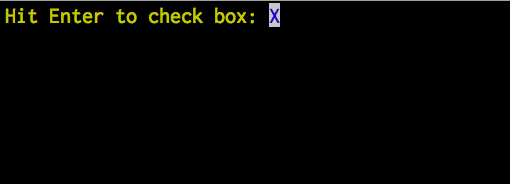
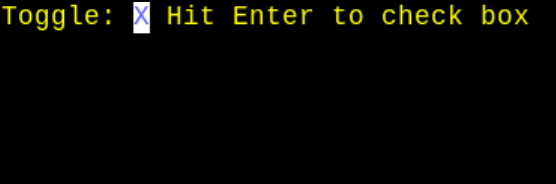
Add support for displaying text next to a checkbox
When building forms the label field is typically quite short, just one
or two words. For checkboxes it is often desirable to have a longer
descriptive piece of text. This is not practical to use as a label and
in many applications would more commonly be placed to the right of the
checkbox.

This adds support for a "SetMessage()" method which provides support
for text adjacent to the checkbox

As an example, this form shows one usage pattern, where the checkbox
is used to require case sensitive matching of the author name query.
In this case the checkbox label is an empty string, and the message
text is used instead:

 ╔════════════ User filtering ════════════════════╗
 ║                                                ║
 ║    Age:   ________                             ║
 ║                                                ║
 ║ Author:   ______________                       ║
 ║                                                ║
 ║           X Case sensitive                     ║
 ║                                                ║
 ║   Apply     Cancel                             ║
 ╚════════════════════════════════════════════════╝

Another pattern is where there are a series of checkboxes, all
related to the same attribute. Thus they have a common form
label but different message text

 ╔════════════ Request filtering ═════════════════╗
 ║                                                ║
 ║    State:    X Opened                          ║
[…]

Changed region(s): [[0.0, 0.0, 1.0, 0.1902]]

diff --git a/checkbox.go b/checkbox.go
@@ -20,6 +20,9 @@ type Checkbox struct {
 	// The text to be displayed before the input area.
 	label string
 
+	// The text to be displayed after the checkbox
+	message string
+
 	// The screen width of the label area. A value of 0 means use the width of
 	// the label text.
 	labelWidth int
@@ -97,6 +100,17 @@ func (c *Checkbox) SetLabel(label string) *Checkbox {
 // GetLabel returns the text to be displayed before the input area.
 func (c *Checkbox) GetLabel() string {
 	return c.label
+}
+
+// SetMessage sets the text to be displayed after the checkbox
+func (c *Checkbox) SetMessage(message string) *Checkbox {
+	c.message = message
+	return c
+}
+
+// GetMessage returns the text to be displayed after the checkbox
+func (c *Checkbox) GetMessage() string {
+	return c.message
 }
 
 // SetLabelWidth sets the screen width of the label. A value of 0 will cause the
@@ -183,7 +197,11 @@ func (c *Checkbox) SetFormAttributes(labelWidth int, labelColor, bgColor, fieldT
 
 // GetFieldWidth returns this primitive's field width.
 func (c *Checkbox) GetFieldWidth() int {
-	return 1
+	if c.message == "" {
+		return 1
+	} else {
+		return 2 + len(c.message)
+	}
 }
 
 // GetFieldHeight returns this primitive's field height.
@@ -282,7 +300,13 @@ func (c *Checkbox) Draw(screen tcell.Screen) {
 	if c.HasFocus() {
 		style = c.focusStyle
 	}
-	printWithStyle(screen, str, x, y, 0, width, AlignLeft, style, c.disabled)
+	_, _, drawnWidth := printWithStyle(screen, str, x, y, 0, width, AlignLeft, style, c.disabled)
+	x += drawnWidth
+	width -= drawnWidth
+
+	if c.message != "" {
+		printWithStyle(screen, c.message, x+1, y, 0, width, AlignLeft, c.labelStyle, labelBg == tcell.ColorDefault)
+	}
 }
 
 // InputHandler returns the handler for this primitive.

diff --git a/demos/checkbox/main.go b/demos/checkbox/main.go
@@ -5,7 +5,7 @@ import "github.com/rivo/tview"
 
 func main() {
 	app := tview.NewApplication()
-	checkbox := tview.NewCheckbox().SetLabel("Hit Enter to check box: ")
+	checkbox := tview.NewCheckbox().SetMessage("Hit Enter to check box").SetLabel("Toggle: ")
 	if err := app.SetRoot(checkbox, true).EnableMouse(true).Run(); err != nil {
 		panic(err)
 	}
